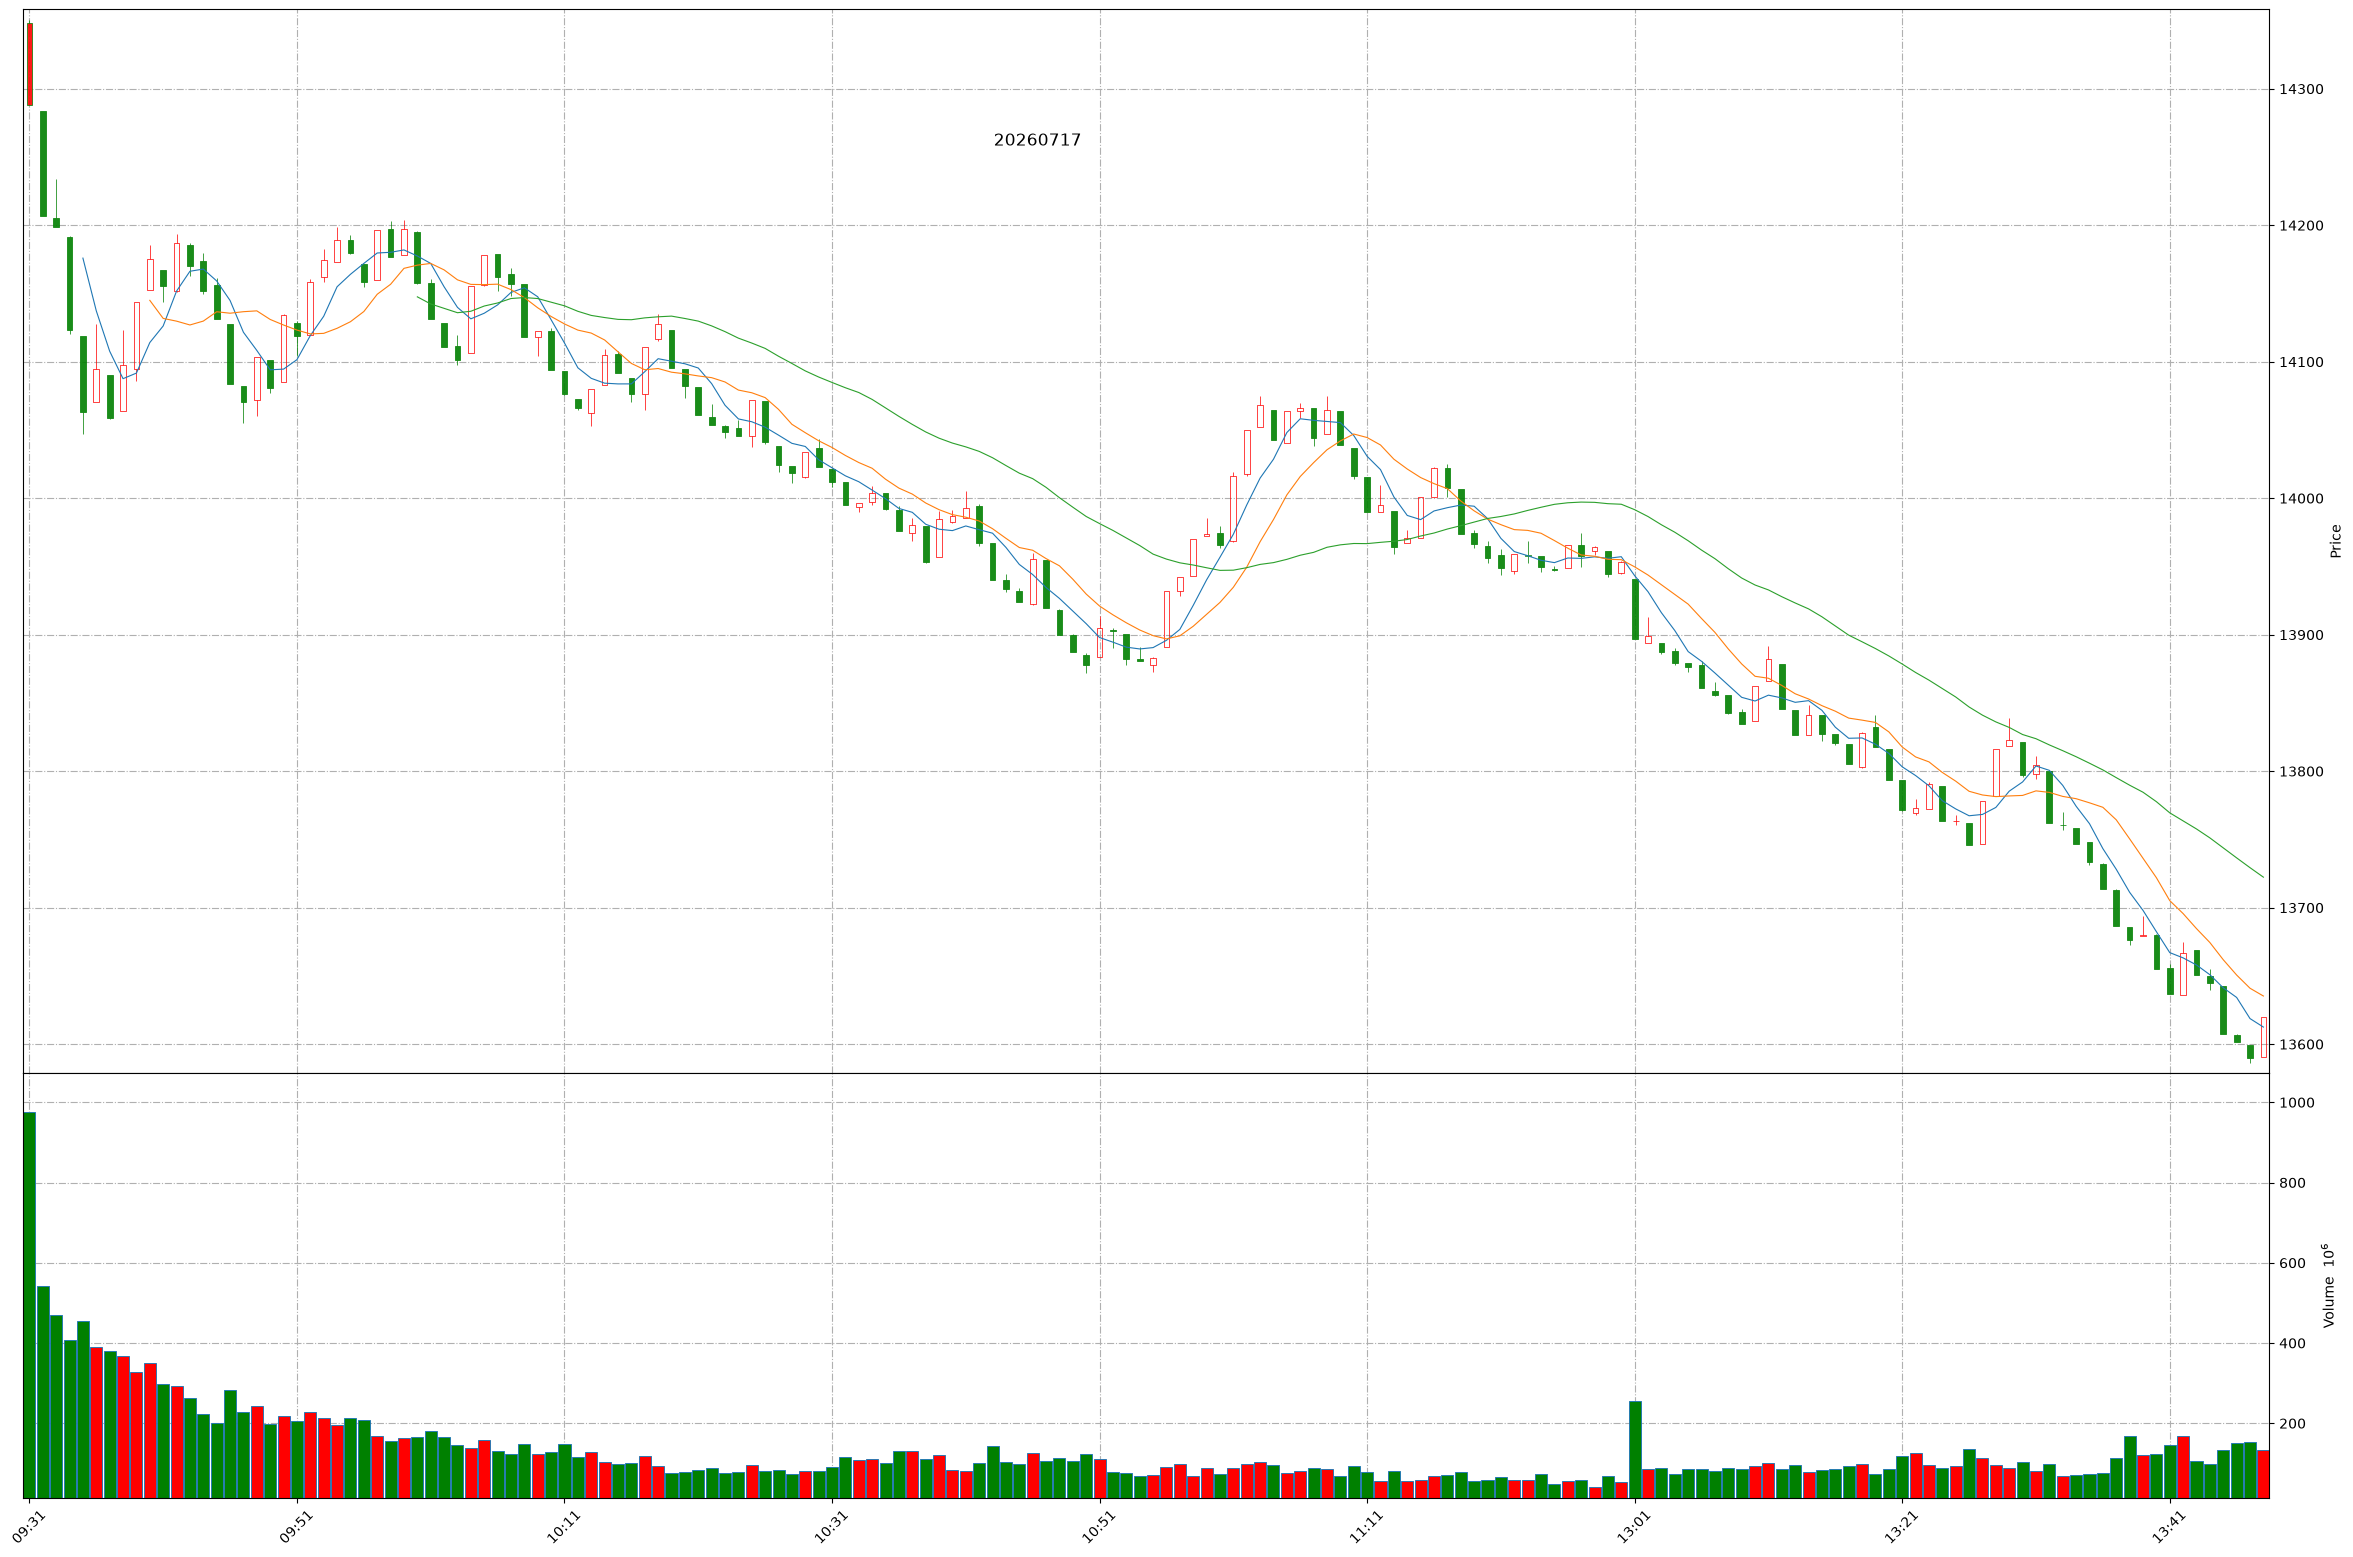
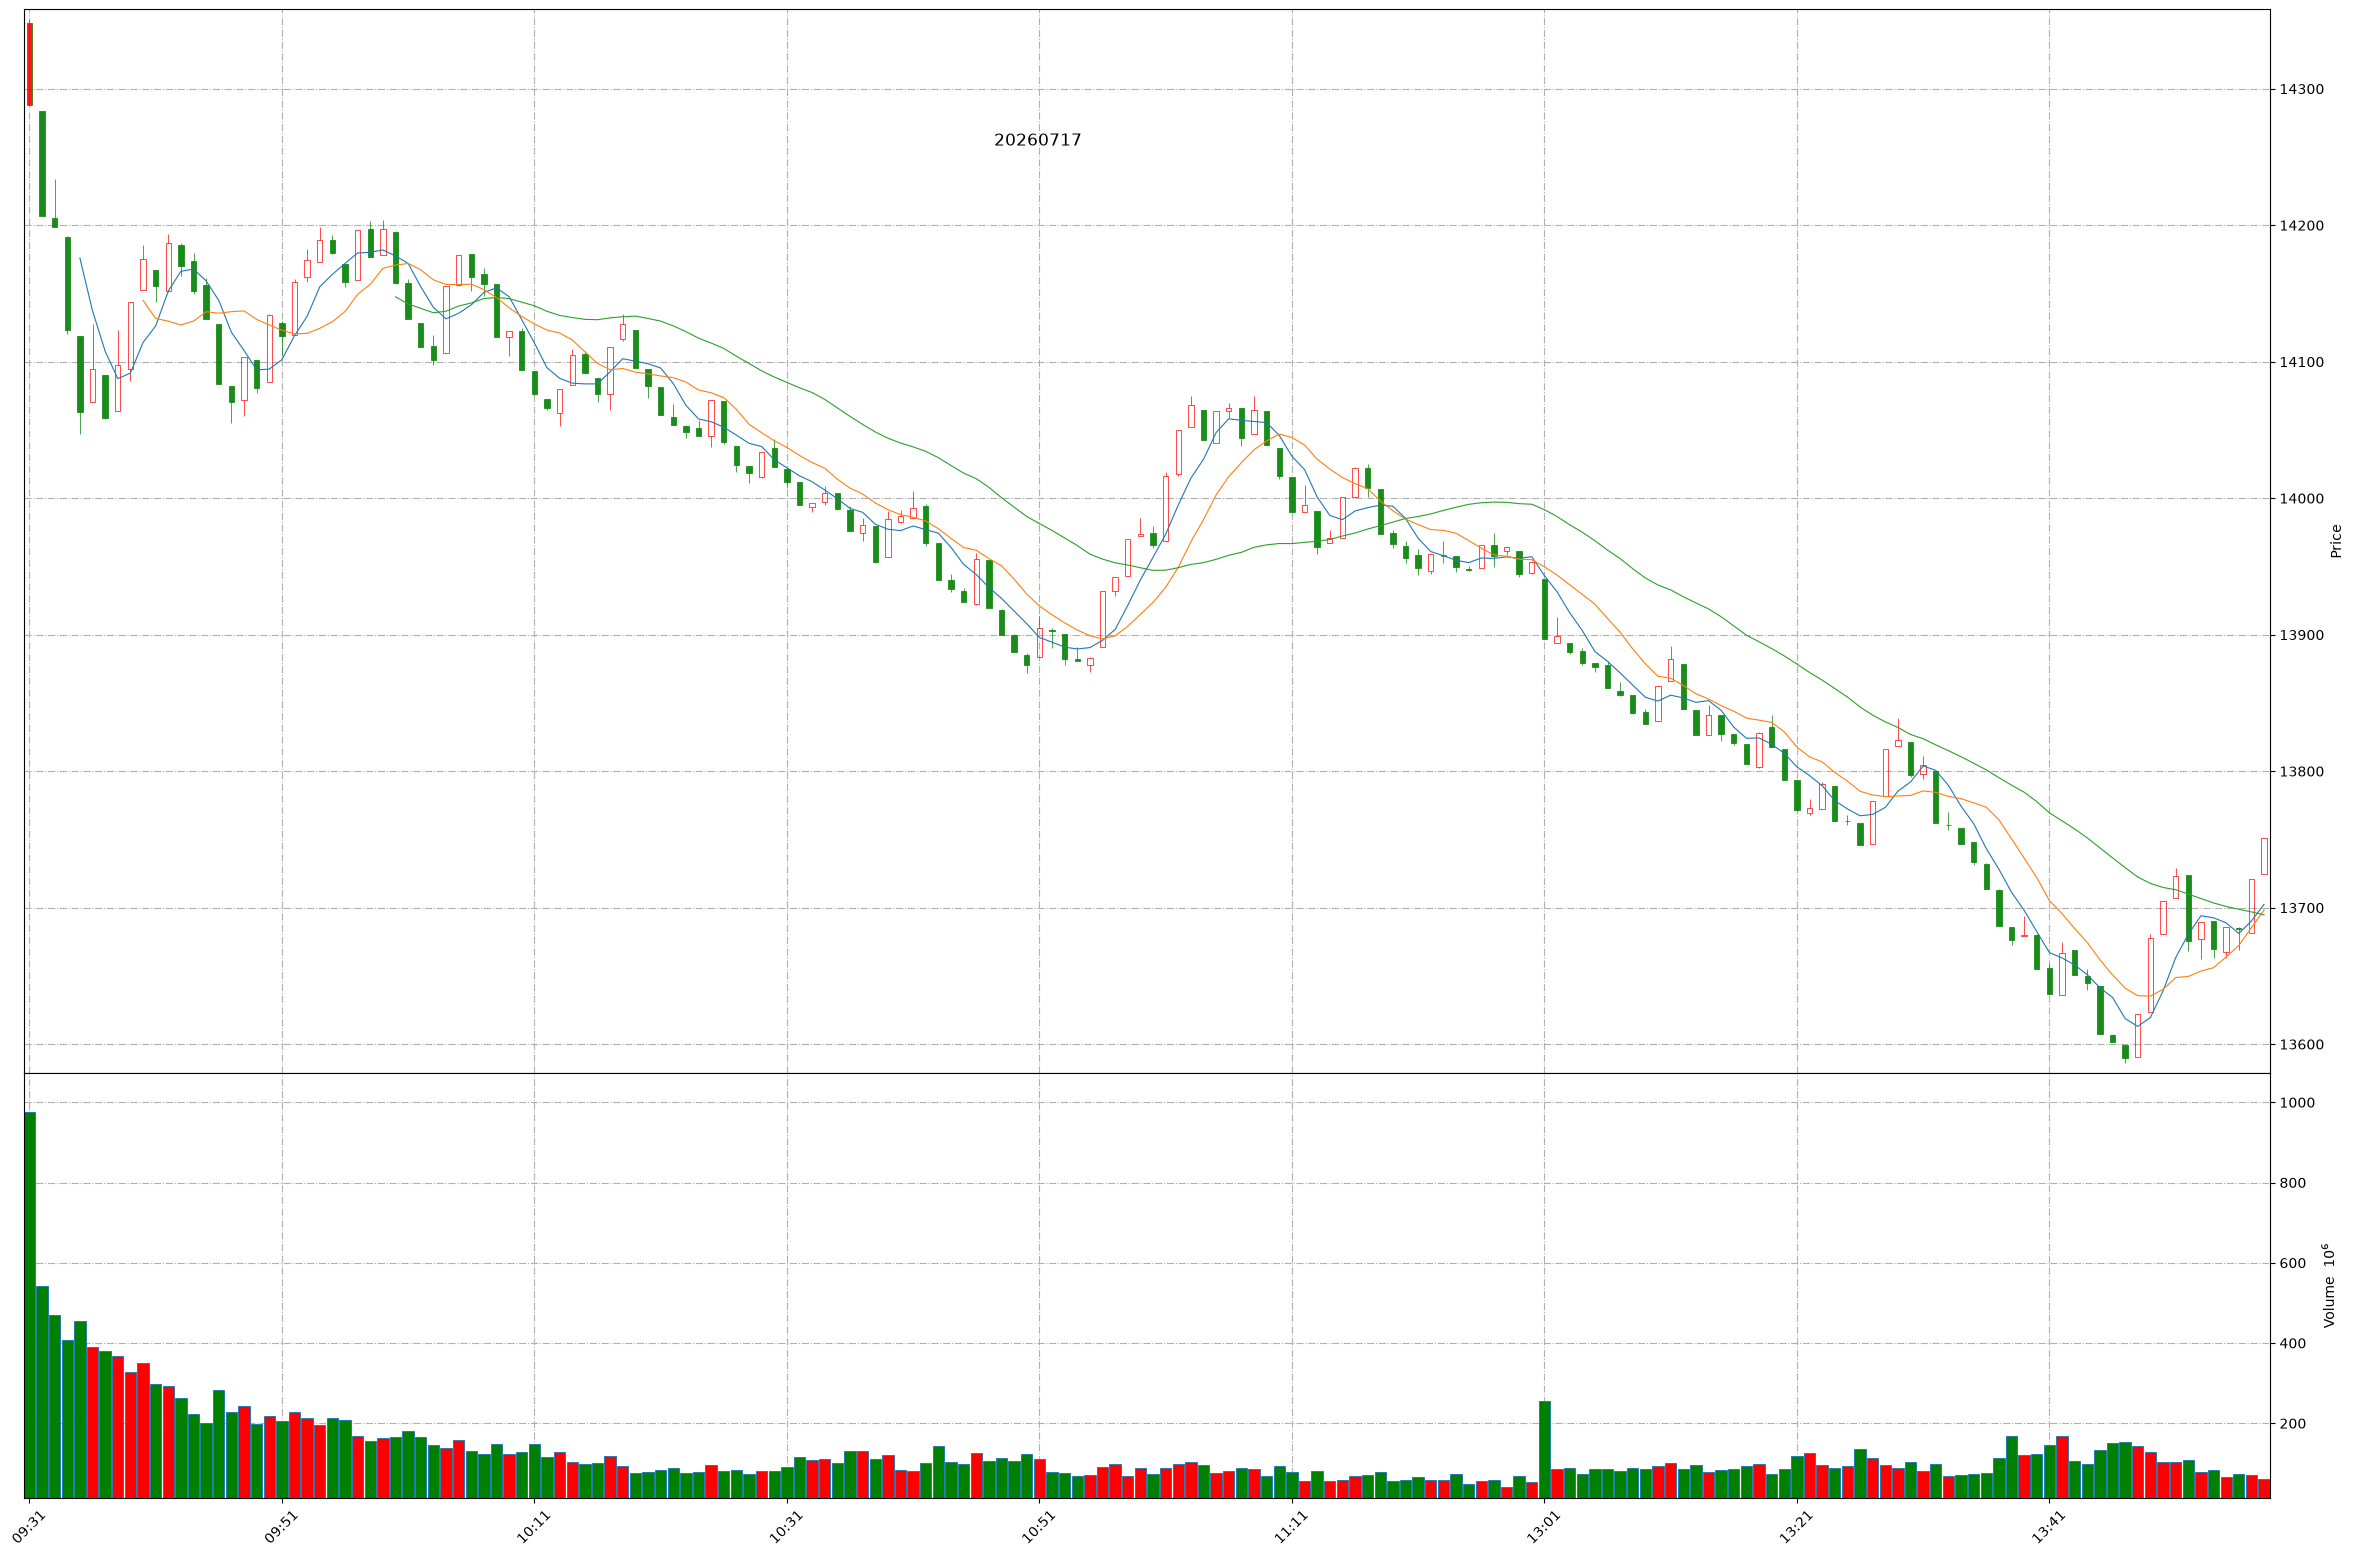
Github action update at 2026-07-17 13:58:04.

Changed region(s): [[0.031, 0.1233, 0.9618, 0.6782], [0.0, 0.8324, 0.9618, 0.9865]]

diff --git a/README.md b/README.md
@@ -1,11 +1,11 @@
 
 # Daily-A-share-market-quotes 每日 A 股指数（5min 更新）- 20260717
 
-### 上证指数 20260717 13:48
+### 上证指数 20260717 13:58
 ![](./fig/2026/7/20260717-sh000001.png)
 
-### 深证成指 20260717 13:48
+### 深证成指 20260717 13:58
 ![](./fig/2026/7/20260717-sz399001.png)
 
-### 北证50 20260717 13:48
+### 北证50 20260717 13:58
 ![](./fig/2026/7/20260717-bj899050.png)
